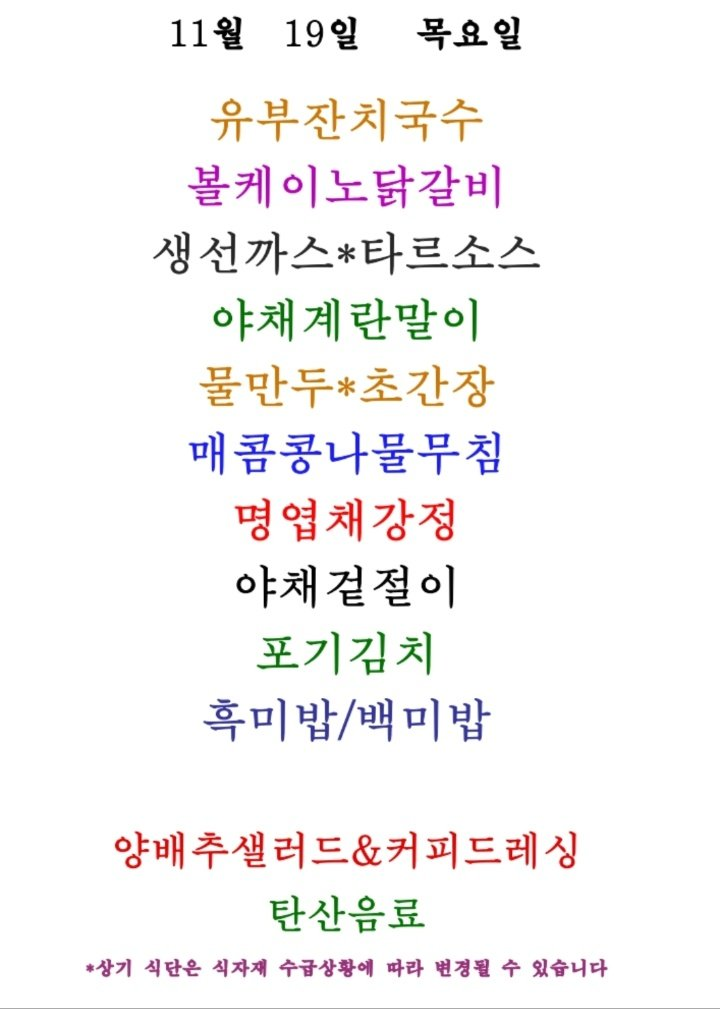
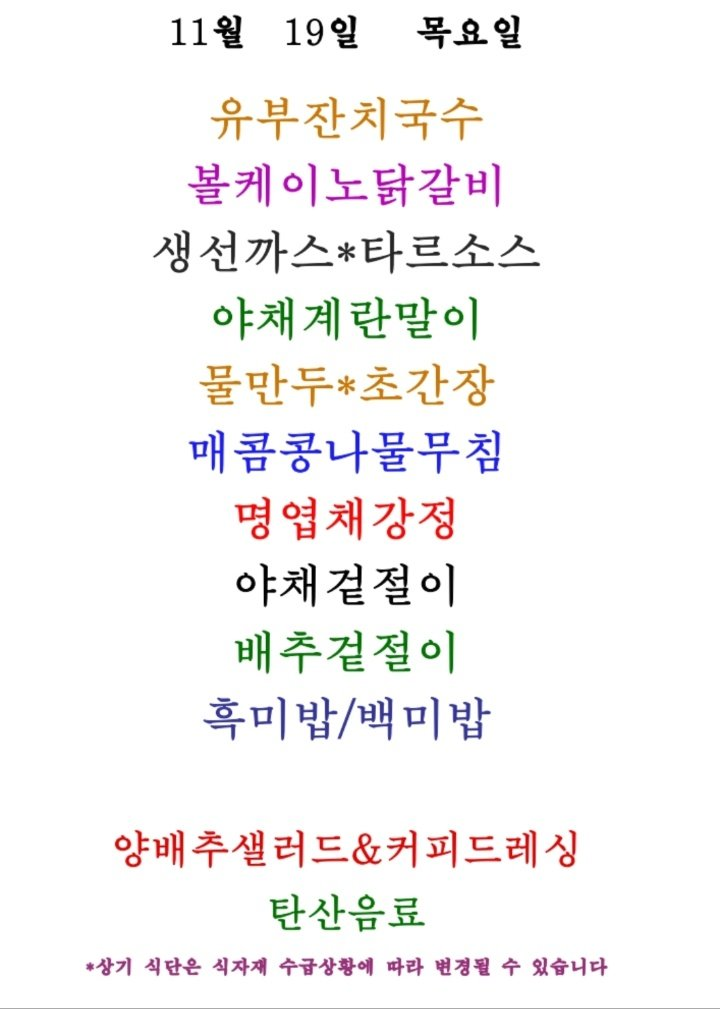
Update menu board assets

diff --git a/menu-today/index.html b/menu-today/index.html
@@ -209,7 +209,7 @@
 
     <section class="meta-bar">
       <div class="meta-card"><div class="meta-label">기준 날짜</div><div class="meta-value">2026년 11월 19일 목요일</div></div>
-      <div class="meta-card"><div class="meta-label">최종 가져온 시간</div><div class="meta-value">2026-11-19 09:39:28</div></div>
+      <div class="meta-card"><div class="meta-label">최종 가져온 시간</div><div class="meta-value">2026-11-19 09:57:49</div></div>
       <div class="meta-card"><div class="meta-label">확인 완료</div><div class="meta-value">9개 식당</div></div>
       <div class="meta-card"><div class="meta-label">준비중</div><div class="meta-value">3개 채널</div></div>
     </section>
@@ -225,7 +225,7 @@
             <div class="sub">현대테라타워 가산DK</div>
           </div>
         </div>
-        <div class="menu-inline-image"><img src="./images/imeal.png" alt="아이밀 식단 이미지"></div><ul><li>삼겹보쌈수육 &amp; 새 재즈 xX</li><li>팔도비빔면</li><li>북한산도토리묵무침</li><li>아몬드멸치볶음</li><li>배추속무무침 / 절인배추</li><li>가든샐러드 &amp; 오렌지D</li><li>포기김치</li><li>백미밥 / 흑미밥</li><li>청양콩나물국</li><li>삼겹보쌈수육 &amp; 새</li><li>배추</li></ul>
+        <div class="menu-inline-image"><img src="./images/imeal.png" alt="아이밀 식단 이미지"></div><ul><li>삼겹보쌈수육 &amp; 새 재즈 xX</li><li>팔도비빔면</li><li>북한산도토리묵무침</li><li>아몬드멸치볶음</li><li>배추속무무침 / 절인배추</li><li>가든샐러드</li><li>포기김치</li><li>백미밥 / 흑미밥</li><li>청양콩나물국</li><li>삼겹보쌈수육 &amp; 새</li><li>배추</li></ul>
       </article>
 
       <article class="restaurant-card">

diff --git a/guro-menu/index.html b/guro-menu/index.html
@@ -32,7 +32,7 @@
   </header>
   <section class="meta">
     <div><small>기준 날짜</small><strong>2026년 11월 19일 목요일</strong></div>
-    <div><small>최종 갱신</small><strong>2026-11-19 09:39:39</strong></div>
+    <div><small>최종 갱신</small><strong>2026-11-19 09:58:00</strong></div>
     <div><small>등록 식당</small><strong>5개</strong></div>
   </section>
   <div class="notice">공개 카카오 채널의 메뉴 이미지를 자동 수집하고 OCR로 정리합니다. 텍스트에 오타가 있을 수 있으니 식단 이미지를 함께 확인해 주세요.</div>
@@ -48,7 +48,7 @@
         </div>
         <img class="menu-image" src="./images/hanshin-it.png" alt="한신IT타워 구내식당 식단 이미지" loading="lazy">
         
-        <ul><li>가 부잔지국수</li><li>볼케이노닭갈비</li><li>생선까스*타르소스</li><li>야채계란말이</li><li>매콜콩나물무침</li><li>명엽채강정</li><li>야채겉절이</li><li>포기김치</li><li>흑미밥/백미밥</li><li>양배추샐러드&amp;커피드레싱</li><li>탄산음료</li></ul>
+        <ul><li>유부잔치국수</li><li>볼케이노닭갈비</li><li>생선까스*타르수스</li><li>야채계란말이</li><li>물만두*초간장</li><li>매콤콩나물무침</li><li>명엽채강정</li><li>야채겉절이</li><li>배추겉절이</li><li>흑미밥/백미밥</li><li>양배추샐러드&amp;커피드레싱</li><li>탄산음료</li></ul>
       </article>
 
       <article class="restaurant-card">
